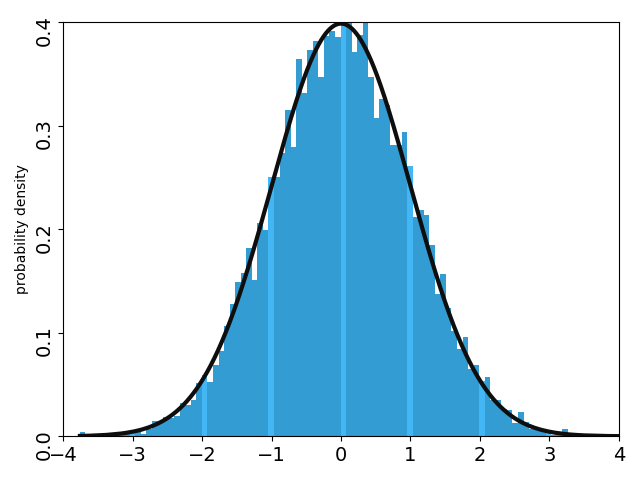
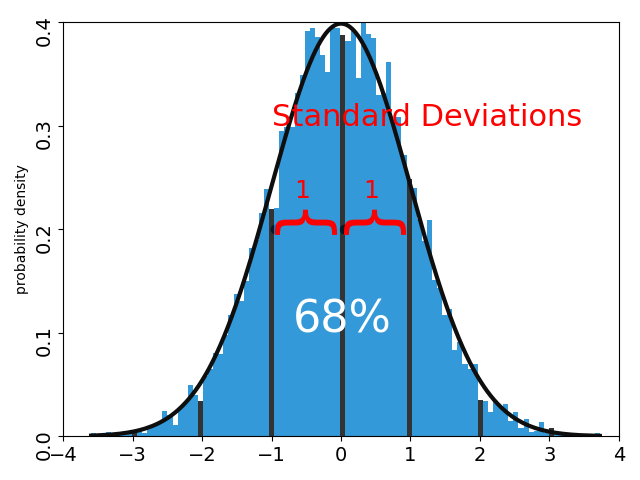
annotate

diff --git a/graphic/plot.py b/graphic/plot.py
@@ -327,19 +327,24 @@ class Plot(DoStats):
             color=d['color'])
             if d['hasLine']:
                 self.plotLines(ax, d['position'][0], (d['position'][1]-.02,d['position'][1]), notHasOffset=True,color=self.black)
-    def drawArrow(self,x,y,c='red',ax=None,arrowstyle="<->",linewidth=1):
+    def drawArrow(self,x,y,c='red',ax=None,arrowstyle="<->",linewidth=1,s='',fontsize=None,rotation=None,isScatter=False):
         if ax is None:
             ax=self.ax
-        ax.plot(x,y)
+        ax.scatter(x,y) if isScatter else ax.plot(x,y)
         # Axes.annotate(self, text, xy, *args, **kwargs)
         # Annotate the point xy with text 'text'.
         # Optionally, the text can be displayed in another position xytext. An arrow pointing from the text to the annotated point xy can then be added by defining arrowprops.
-        ax.annotate("",
-                    xy=(x[0], y[0]), 
+        length=len(x) if isScatter else 1
+        for i in range(length):
+            ax.annotate(s,
+                    xy=(x[i], y[i]), 
+                    rotation=rotation,
+                    fontsize=fontsize,
                     xycoords='data',
-                    xytext=(x[1], y[1]),        
+                    xytext=(x[i], y[i]),  
+                    color='red',      
                     textcoords='data',
-                    arrowprops=dict
+                    arrowprops=None if isScatter else dict
                     (
                         arrowstyle=arrowstyle, 
                         color=c,

diff --git a/test/fun/test_SD_VAR.py b/test/fun/test_SD_VAR.py
@@ -23,9 +23,18 @@ class TDD_TEST_SD_VAR(unittest.TestCase):
     def test_using(self):
         p=self.p.getProbability(1,isPercent=True)
         self.assertEqual(p,'68%')
+        def func(ax,plt):
+            x,y = [-.95,.04],[.2,.2]
+            self.p.drawArrow(x,y,s=r"$\}$",fontsize=47,rotation=90,isScatter=True)
+            self.p.drawTxt({'fontsize':18,'center':'right','color':'red','position':[-.45,.23],'txt':1})
+            self.p.drawTxt({'fontsize':18,'center':'right','color':'red','position':[.55,.23],'txt':1})
+            self.p.drawTxt({'fontsize':22,'center':'left','color':'red','position':[-1,.3],'txt':'Standard Deviations'})
+            self.p.drawTxt({'fontsize':32,'center':'left','color':'white','position':[-.7,.1],'txt':'68%'})
+            
         self.p.plotStdND(
-            barCol='#0084C8',
-            cutLineCol='#14A5F4',
+            func=func,
+            barCol='#0080CF',
+            cutLineCol='black',
         ).saveAndShow()
 if __name__ == '__main__':
     unittest.main()
